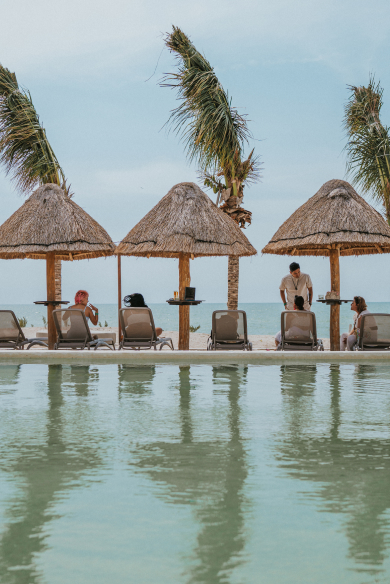
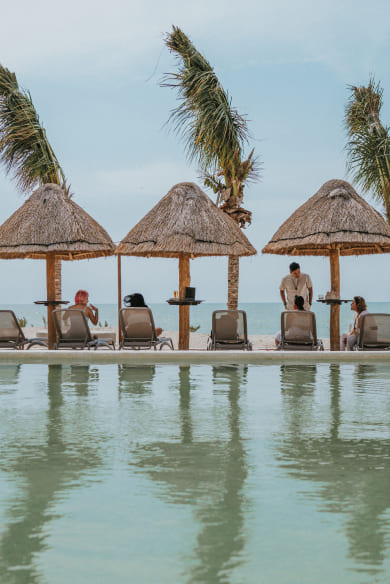
Hotfix: Compresss IMG y redes sociales

diff --git a/resources/js/react/components/pages/Home.jsx b/resources/js/react/components/pages/Home.jsx
@@ -9,6 +9,13 @@ import bannerInicial from "../../../../img/app/banner-1.jpg";
 import galeriaTest from "../../../../img/app/galeria-test.jpg";
 import arrowDown from "../../../../img/app/icon-arrow-down.png";
 
+import galeria_1 from "../../../../img/app/galeria-home/1.jpg";
+import galeria_2 from "../../../../img/app/galeria-home/2.jpg";
+import galeria_3 from "../../../../img/app/galeria-home/3.jpg";
+import galeria_4 from "../../../../img/app/galeria-home/4.jpg";
+import galeria_5 from "../../../../img/app/galeria-home/5.jpg";
+import galeria_6 from "../../../../img/app/galeria-home/6.jpg";
+
 import anemidad_1 from "../../../../img/app/icons/icon-1.png";
 import anemidad_2 from "../../../../img/app/icons/icon-2.png";
 import anemidad_3 from "../../../../img/app/icons/icon-3.png";
@@ -307,15 +314,48 @@ function Galeria() {
                 lazyLoad: true,
             }}
         >
-            {[1, 2, 3, 4].map((item) => (
-                <SplideSlide key={item}>
-                    <img
-                        className="aspect-square sm:aspect-video object-cover"
-                        src={galeriaTest}
-                        alt="Galeria 1"
-                    />
-                </SplideSlide>
-            ))}
+            <SplideSlide>
+                <img
+                    className="aspect-square sm:aspect-video object-cover"
+                    src={galeria_1}
+                    alt="Galeria 1"
+                />
+            </SplideSlide>
+            <SplideSlide>
+                <img
+                    className="aspect-square sm:aspect-video object-cover"
+                    src={galeria_2}
+                    alt="Galeria 1"
+                />
+            </SplideSlide>
+            <SplideSlide>
+                <img
+                    className="aspect-square sm:aspect-video object-cover"
+                    src={galeria_3}
+                    alt="Galeria 1"
+                />
+            </SplideSlide>
+            <SplideSlide>
+                <img
+                    className="aspect-square sm:aspect-video object-cover"
+                    src={galeria_4}
+                    alt="Galeria 1"
+                />
+            </SplideSlide>
+            <SplideSlide>
+                <img
+                    className="aspect-square sm:aspect-video object-cover"
+                    src={galeria_5}
+                    alt="Galeria 1"
+                />
+            </SplideSlide>
+            <SplideSlide>
+                <img
+                    className="aspect-square sm:aspect-video object-cover"
+                    src={galeria_6}
+                    alt="Galeria 1"
+                />
+            </SplideSlide>
         </Splide>
     );
 }

diff --git a/resources/js/react/components/Footer.jsx b/resources/js/react/components/Footer.jsx
@@ -34,10 +34,14 @@ export default function Footer() {
 
                                 <ul className="flex gap-3 justify-center pt-5 md:hidden">
                                     <li>
-                                        <img src={iconIn} alt="Instagram" />
+                                        <a href="https://www.instagram.com/totem.beachclub/" target="_blank" rel="noopener noreferrer">
+                                            <img src={iconIn} alt="Instagram" />
+                                        </a>
                                     </li>
                                     <li>
-                                        <img src={iconFb} alt="Facebook" />
+                                        <a href="https://www.facebook.com/TotemBeachClub" target="_blank" rel="noopener noreferrer">
+                                            <img src={iconFb} alt="Facebook" />
+                                        </a>
                                     </li>
                                     <li>
                                         <img

diff --git a/resources/js/react/components/pages/Resumen.jsx b/resources/js/react/components/pages/Resumen.jsx
@@ -10,7 +10,7 @@ export default function Resumen() {
 
     useEffect(() => {
         async function fetchData() {
-            const response = await axios.post( "https://totem-local.mx:443/api/resumen", {folio: folio});
+            const response = await axios.post( import.meta.env.VITE_APP_URL+"/api/resumen", {folio: folio});
             setOrden(response.data);
             console.log(response.data)
           }
